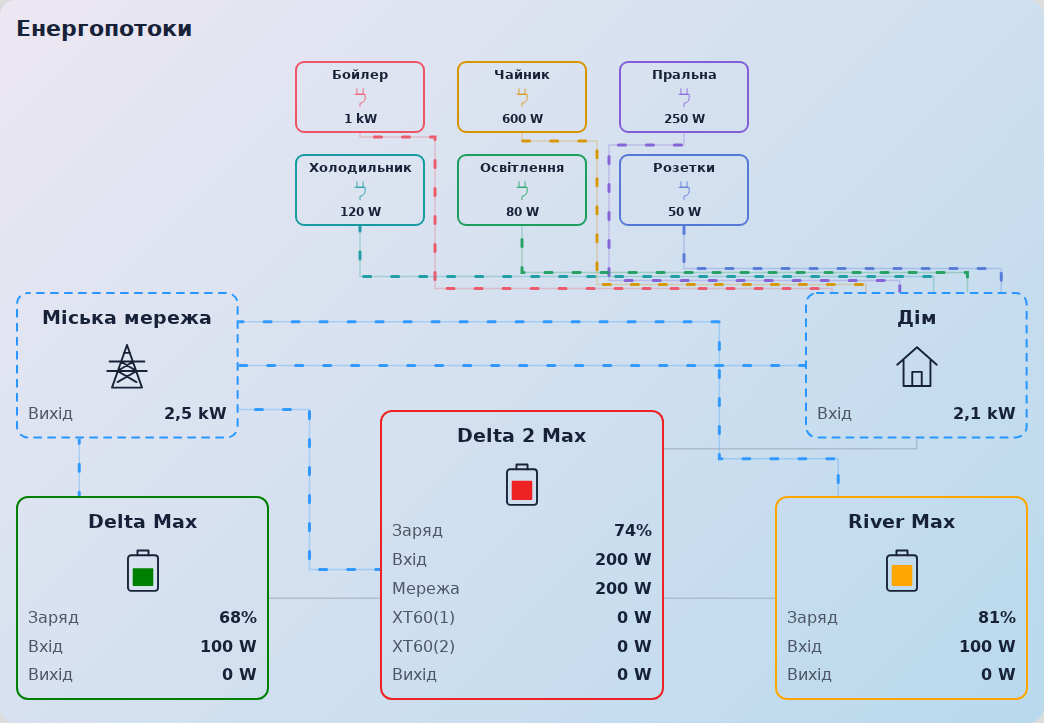
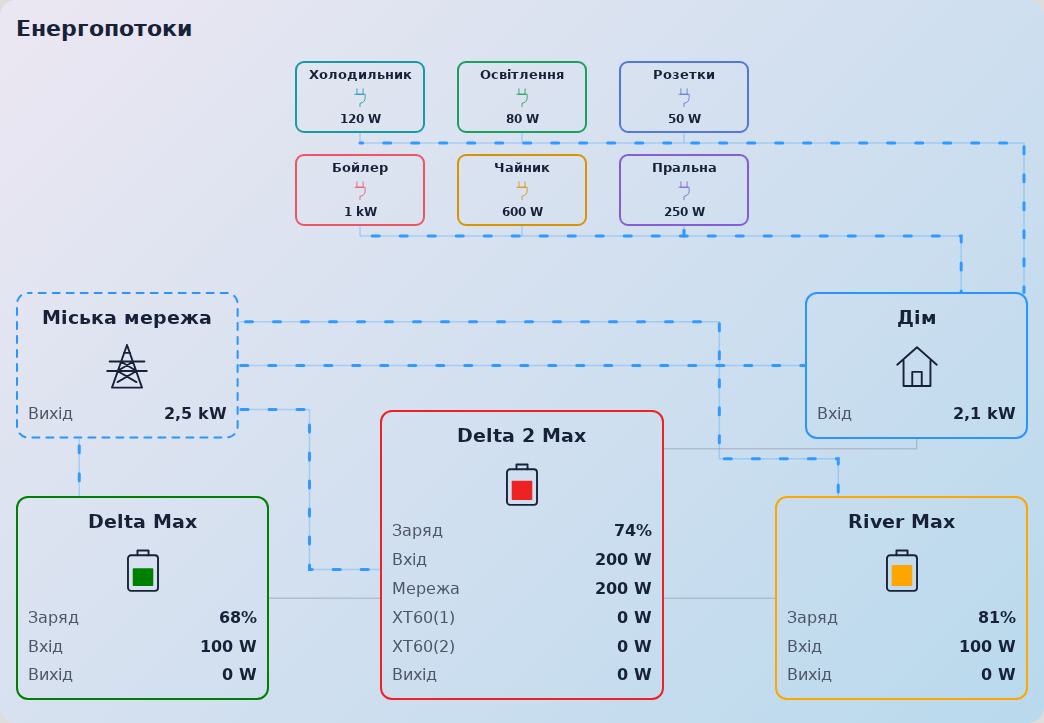
Simplify consumer feeds with shared rows in beta 2

diff --git a/suris-ecoflow-flow-card.js b/suris-ecoflow-flow-card.js
@@ -1,8 +1,8 @@
-/* Suris EcoFlow Flow Card v2.0.0-beta.1 | MIT | No external dependencies. */
+/* Suris EcoFlow Flow Card v2.0.0-beta.2 | MIT | No external dependencies. */
 (() => {
   'use strict';
   const TAG = 'suris-ecoflow-flow-card';
-  const VERSION = '2.0.0-beta.1';
+  const VERSION = '2.0.0-beta.2';
   const NS = 'http://www.w3.org/2000/svg';
   let cardSequence = 0;
   const DEFAULTS = {
@@ -17,8 +17,8 @@
     uk: { grid: 'Міська мережа', main: 'Головна EcoFlow', home: 'Дім', title: 'Енергопотоки', input: 'Вхід', output: 'Вихід', soc: 'Заряд', ac: 'Мережа', source: 'Джерело', unknown: 'Невідомо', unavailable: 'Недоступно', select: 'Вибери сутності в редакторі картки', settings: 'Налаштування', homePowerLabel: 'Вхід дому (необов’язково)', homeDerived: 'Без окремого датчика: від мережі — загальна потужність мінус заряджання трьох станцій; від EcoFlow — вихід головної станції. Відсутні або недоступні входи станцій у розрахунку вважаються нулем. Вхід дому від мережі розрахунковий.', sourceHint: 'Мережа є — дім від міської мережі. Мережі немає — дім від головної EcoFlow. Вибери датчик наявності мережі в блоці міської мережі.', flowHint: 'Штрихи без стрілок рухаються від джерела до споживача. Більша потужність кожної лінії — більша швидкість. Більший базовий час — повільніший рух. Потік активний, коли потужність перевищує поріг. Відсутні або недоступні показники відображаються як —.', mainHint: 'Для лінії мережа → головна EcoFlow потрібна окрема потужність AC-входу. Загальний вхід не використовується як AC-вхід.', auxHint: 'Потужність передачі на головну станцію: вибери DC-вихід, якщо загальний вихід включає інші навантаження. Якщо поле порожнє, використовується загальний вихід.', editorError: 'Редактор Home Assistant ще завантажується. Закрий та відкрий редактор картки ще раз.', more: 'Докладніше', watts: 'W', mismatch: 'Стан міської мережі не розпізнано', setup: 'Вибери датчик наявності міської мережі' },
     en: { grid: 'City grid', main: 'Main EcoFlow', home: 'Home', title: 'Energy flows', input: 'Input', output: 'Output', soc: 'Charge', ac: 'Grid', source: 'Source', unknown: 'Unknown', unavailable: 'Unavailable', select: 'Select entities in the card editor', settings: 'Settings', homePowerLabel: 'Home input power (optional)', homeDerived: 'Without a separate sensor: grid power minus the three station charging powers when on grid; main station output when on EcoFlow. Missing or unavailable station inputs count as zero in this calculation. Home input from the grid is calculated.', sourceHint: 'Grid available — home powered by grid. Grid absent — home powered by the main EcoFlow. Select the grid availability sensor in the city grid section.', flowHint: 'Dashes without arrows move from source to load. Higher power on each line increases its speed. A larger base time slows movement. A flow is active above the threshold. Missing or unavailable readings appear as —.', mainHint: 'A separate AC input power entity is required for grid → main EcoFlow. Total input is never treated as AC input.', auxHint: 'Transfer power: use DC output if total output includes other loads. When empty, total output is used.', editorError: 'The Home Assistant editor is still loading. Close and reopen the card editor.', more: 'More information', watts: 'W', mismatch: 'Unrecognized grid availability state', setup: 'Select the grid availability sensor' }
   };
-  Object.assign(TEXT.uk, { consumers: 'Індивідуальні споживачі', consumer: 'Споживач', addConsumer: 'Додати споживача', removeConsumer: 'Видалити', consumerPower: 'Датчик потужності (W / kW)', consumerIcon: 'Іконка', consumerColor: 'Колір рамки та лінії від дому', consumerHint: 'Додай до 20 приладів. Зверху видно до шести активних із найбільшою потужністю. Поріг активності береться з налаштувань потоків. Потрібен датчик потужності, а не енергії kWh. Колір застосовується до рамки приладу та його лінії від дому.' });
-  Object.assign(TEXT.en, { consumers: 'Individual consumers', consumer: 'Consumer', addConsumer: 'Add consumer', removeConsumer: 'Remove', consumerPower: 'Power sensor (W / kW)', consumerIcon: 'Icon', consumerColor: 'Consumer border and home line color', consumerHint: 'Add up to 20 devices. The six active devices with the highest power appear at the top. Activity uses the flow threshold. Select power sensors, not kWh energy sensors. Each color applies to the device border and its line from home.' });
+  Object.assign(TEXT.uk, { consumers: 'Індивідуальні споживачі', consumer: 'Споживач', addConsumer: 'Додати споживача', removeConsumer: 'Видалити', consumerPower: 'Датчик потужності (W / kW)', consumerIcon: 'Іконка', consumerColor: 'Колір рамки споживача', consumerHint: 'Додай до 20 приладів. Зверху видно до шести активних із найбільшою потужністю. Поріг активності береться з налаштувань потоків. Потрібен датчик потужності, а не енергії kWh. Колір застосовується до рамки приладу. Спільні лінії рядів мають колір дому. Спочатку заповнюється нижній ряд.' });
+  Object.assign(TEXT.en, { consumers: 'Individual consumers', consumer: 'Consumer', addConsumer: 'Add consumer', removeConsumer: 'Remove', consumerPower: 'Power sensor (W / kW)', consumerIcon: 'Icon', consumerColor: 'Consumer border color', consumerHint: 'Add up to 20 devices. The six active devices with the highest power appear at the top. Activity uses the flow threshold. Select power sensors, not kWh energy sensors. Each device color applies to its border. Shared row lines use the home color. The lower row fills first.' });
   const t = (config) => TEXT[config?.language] || TEXT.uk;
   const draftConfig = (config = {}) => {
     const result = { ...DEFAULTS, ...config };
@@ -68,7 +68,7 @@
     const ranked = consumers.map((consumer, index) => ({ ...consumer, index })).filter(consumer => Number.isFinite(consumer.power) && consumer.power > threshold)
       .sort((a, b) => b.power - a.power || previousRank(a.id) - previousRank(b.id) || a.index - b.index).slice(0, 6);
     const selected = new Map(ranked.map(consumer => [consumer.id, consumer])), slots = Array(6).fill(null);
-    previous.slice(0, 6).forEach((id, slot) => { if (selected.has(id)) { slots[slot] = selected.get(id); selected.delete(id); } });
+    previous.slice(0, 6).forEach((id, slot) => { if (slot < ranked.length && selected.has(id)) { slots[slot] = selected.get(id); selected.delete(id); } });
     for (const consumer of ranked) if (selected.has(consumer.id)) { slots[slots.indexOf(null)] = consumer; selected.delete(consumer.id); }
     return slots;
   };
@@ -163,7 +163,7 @@
     .grid{left:0;top:37%;width:22%}.home{right:0;top:37%;width:22%}.auxiliary_1{left:0;bottom:1%;width:25%}.auxiliary_2{right:0;bottom:1%;width:25%}.main{left:36%;bottom:1%;width:28%;min-height:max(220px,28cqw)}
     .status{margin-top:8px;color:var(--secondary-text-color,#aaa);font-size:12px;min-height:16px;text-align:center}.status:empty{display:none}
     @container(max-width:520px){.diagram{height:540px}.node{padding:8px 5px;gap:6px;border-radius:9px;min-height:137px}.node h3{font-size:12px}.node .icon{height:29px;margin:0}.row{font-size:11px;gap:2px}.row .value{margin-left:auto}.grid,.home{width:24%;top:38%}.auxiliary_1{left:0;width:25%;bottom:1%}.auxiliary_2{right:0;width:25%;bottom:1%}.main{left:33%;width:34%;min-height:202px}}
-    .node.consumer{height:72px;min-height:72px;padding:4px;gap:3px;border-radius:9px}.consumer h3{font-size:clamp(11px,1.5cqw,13px);line-height:1.2;white-space:nowrap;overflow:hidden;text-overflow:ellipsis;overflow-wrap:normal}.consumer .icon{height:22px;margin:0;color:var(--node-color)}.consumer ha-icon{--mdc-icon-size:22px;width:22px;height:22px}.consumer ha-icon:not(:defined){display:none}.consumer ha-icon:defined+.fallback{display:none}.consumer .fallback{height:22px}.consumer .value{width:100%;text-align:center;font-size:12px;line-height:16px}.consumer:focus-within{outline:1px solid var(--node-color);outline-offset:2px}
+    .node.consumer{height:72px;min-height:72px;padding:4px;gap:3px;border-radius:9px}.consumer h3{font-size:clamp(11px,1.5cqw,13px);line-height:1.2;white-space:nowrap;overflow:hidden;text-overflow:ellipsis;overflow-wrap:normal}.consumer .icon{height:22px;margin:0;color:var(--node-color)}.consumer ha-icon{--mdc-icon-size:22px;width:22px;height:22px}.consumer ha-icon:not(:defined){display:none}.consumer ha-icon:defined+.fallback{display:none}.consumer .fallback{height:22px}.consumer .fallback svg{width:22px}.consumer .value{width:100%;text-align:center;font-size:12px;line-height:16px}.consumer:focus-within{outline:1px solid var(--node-color);outline-offset:2px}
     @media(prefers-reduced-motion:reduce){.flow .flow-dashes{display:none}.flow.active .flow-track{stroke-width:3;opacity:.92}}
   `;
   class SurisEcoFlowFlowCard extends HTMLElement {
@@ -289,7 +289,7 @@
       const status = this.shadowRoot.querySelector('.status');
       status.textContent = !c.grid.available_entity ? text.setup : data.home.source === 'unknown' ? text.mismatch : '';
       const homeColor = data.home.source === 'unknown' ? 'var(--divider-color,#60656d)' : `var(--flow-${data.home.source})`;
-      this._nodes.home.style.setProperty('--node-color', homeColor); this._borders.home.style.setProperty('--node-color', homeColor);
+      this.style.setProperty('--flow-home', homeColor); this._nodes.home.style.setProperty('--node-color', homeColor); this._borders.home.style.setProperty('--node-color', homeColor);
       this._renderConsumers(); this._drawPaths(); this._syncFlows();
     }
     _renderConsumers() {
@@ -313,12 +313,14 @@
         this.style.setProperty(`--consumer-${consumer.id}`, consumer.color); node.style.setProperty('--node-color', `var(--consumer-${consumer.id})`);
         const value = node.querySelector('.value'); value.textContent = powerText(consumer.power, this._config.language); value.dataset.entity = consumer.entity;
         value.title = `${consumer.entity}: ${this._states[consumer.entity]?.state ?? ''}`; value.setAttribute('aria-label', `${consumer.name}: ${value.textContent}`);
-        const name = `home_consumer_${consumer.id}`; this._data.flows[name] = true; this._data.flow_power[name] = consumer.power;
+        const name = `home_consumer_${consumer.id}`, row = slot < 3 ? 'home_row_lower' : 'home_row_upper';
+        this._data.flows[name] = true; this._data.flow_power[name] = consumer.power;
+        this._data.flows[row] = true; this._data.flow_power[row] = (this._data.flow_power[row] || 0) + consumer.power;
       });
     }
     _layoutConsumers() {
-      const width = Math.min(130, (this._diagram.clientWidth - 64) / 3), offset = (this._diagram.clientWidth - width * 3 - 64) / 2;
-      for (const node of this._consumerNodes.values()) { const slot = Number(node.dataset.slot); Object.assign(node.style, { left: `${offset + (width + 32) * (slot % 3)}px`, top: `${12 + Math.floor(slot / 3) * 93}px`, width: `${width}px` }); }
+      const width = Math.min(130, (this._diagram.clientWidth - 84) / 3), offset = (this._diagram.clientWidth - width * 3 - 64) / 2;
+      for (const node of this._consumerNodes.values()) { const slot = Number(node.dataset.slot); Object.assign(node.style, { left: `${offset + (width + 32) * (slot % 3)}px`, top: `${12 + (slot < 3 ? 1 : 0) * 93}px`, width: `${width}px` }); }
     }
     _syncFlows() {
       if (!this._config) return;
@@ -336,7 +338,7 @@
     _syncBorders() {
       for (const [key, border] of Object.entries(this._borders || {})) {
         const outgoing = Object.keys(this._data?.flows || {}).filter(name => name.startsWith(`${key}_`) && this._data.flows[name]);
-        const active = outgoing.length > 0, animation = border._animation;
+        const active = key !== 'home' && outgoing.length > 0, animation = border._animation;
         this._nodes[key].classList.toggle('supplying', active); border.classList.toggle('active', active);
         const watts = outgoing.reduce((total, name) => total + this._data.flow_power[name], 0);
         animation.updatePlaybackRate(flowSpeed(watts, this._config.appearance.duration) / 14);
@@ -397,15 +399,14 @@
         auxiliary_2_main: `M ${b.x} ${b.y + b.h / 2} H ${m.right}`,
         main_home: `M ${m.right} ${homeLane} H ${h.x + h.w / 2} V ${h.bottom}`
       };
-      for (const [id, node] of this._consumerNodes) {
-        const c = rect(`consumer:${id}`), slot = Number(node.dataset.slot), col = slot % 3;
-        const port = h.x + h.w * (.12 + slot * .152), lane = h.y - 4 * (slot + 1), target = c.x + c.w / 2;
-        if (slot >= 3) routes[`home_consumer_${id}`] = `M ${port} ${h.y} V ${lane} H ${target} V ${c.bottom}`;
-        else {
-          const corridor = col === 2 ? c.x - 10 : c.right + 10;
-          const upperLane = c.bottom + 4 * (col + 1);
-          routes[`home_consumer_${id}`] = `M ${port} ${h.y} V ${lane} H ${corridor} V ${upperLane} H ${target} V ${c.bottom}`;
-        }
+      for (const [row, lower] of [['lower', true], ['upper', false]]) {
+        const members = [...this._consumerNodes].filter(([, node]) => (Number(node.dataset.slot) < 3) === lower);
+        if (!members.length) continue;
+        const bounds = members.map(([id]) => rect(`consumer:${id}`)), lane = bounds[0].bottom + 10;
+        const port = lower ? h.x + h.w * .70 : base.width - 4;
+        const leftmost = Math.min(...bounds.map(c => c.x + c.w / 2));
+        routes[`home_row_${row}`] = `M ${port} ${h.y} V ${lane} H ${leftmost}`;
+        members.forEach(([id], index) => { const c = bounds[index]; routes[`home_consumer_${id}`] = `M ${c.x + c.w / 2} ${lane} V ${c.bottom}`; });
       }
       const geometry = JSON.stringify(routes); if (geometry === this._geometry && this._svg.childElementCount) return;
       const oldFlows = this._flows;
@@ -424,7 +425,7 @@
       for (const [name, route] of Object.entries(routes)) {
         const group = oldFlows[name] || document.createElementNS(NS, 'g'); group.classList.add('flow'); group.dataset.flow = name;
         const color = name.startsWith('grid') ? 'grid' : name === 'main_home' ? 'main' : name.startsWith('auxiliary_1') ? 'auxiliary_1' : 'auxiliary_2';
-        group.style.setProperty('--color', name.startsWith('home_consumer_') ? `var(--consumer-${name.slice(14)})` : `var(--flow-${color})`);
+        group.style.setProperty('--color', name.startsWith('home_') ? 'var(--flow-home)' : `var(--flow-${color})`);
         const path = group.querySelector('.flow-track') || document.createElementNS(NS, 'path'); path.classList.add('flow-track'); path.setAttribute('d', route); group.append(path);
         const dashes = group.querySelector('.flow-dashes') || document.createElementNS(NS, 'path'); dashes.classList.add('flow-dashes'); dashes.setAttribute('d', route); group.append(dashes);
         if (!group._animation) { group._animation = dashes.animate([{ strokeDashoffset: '0px' }, { strokeDashoffset: '-28px' }], { duration: 1000, iterations: Infinity });

diff --git a/demo.html b/demo.html
@@ -1,5 +1,5 @@
 <!doctype html>
-<html lang="uk"><head><meta charset="utf-8"><meta name="viewport" content="width=device-width,initial-scale=1"><title>Suris EcoFlow Flow Card 2.0.0-beta.1 — Demo</title>
+<html lang="uk"><head><meta charset="utf-8"><meta name="viewport" content="width=device-width,initial-scale=1"><title>Suris EcoFlow Flow Card 2.0.0-beta.2 — Demo</title>
 <style>body{margin:20px auto;padding:0 12px;max-width:1060px;background:#111;color:#eee;font:16px system-ui;--ha-card-background:#1c1c1c;--primary-text-color:#eee;--secondary-text-color:#aaa;--divider-color:#535861}nav{display:flex;gap:8px;flex-wrap:wrap;margin:16px 0}button{background:#222;border:1px solid #666;color:#eee;padding:10px 14px;border-radius:8px;cursor:pointer}button:focus-visible{outline:2px solid #27d9d5}p{color:#aaa;font-size:13px}</style>
 </head><body><nav><button data-mode="main">Дім від EcoFlow</button><button data-mode="aux3">Передача EcoFlow №3</button><button data-mode="grid">Дім від мережі</button><button data-mode="charging">Заряджання від мережі</button><button data-mode="replace">Заміна сильнішим приладом</button><button data-mode="idle">Прилади вимкнені</button><button data-mode="unknown">Джерело недоступне</button></nav><suris-ecoflow-flow-card></suris-ecoflow-flow-card><p>Демонстраційні показники. Для встановлення відкрий README.md.</p>
 <script src="./suris-ecoflow-flow-card.js"></script><script>

diff --git a/README.md b/README.md
@@ -1,6 +1,6 @@
-# Suris EcoFlow Flow Card 2.0.0-beta.1
+# Suris EcoFlow Flow Card 2.0.0-beta.2
 
-[English guide](README_EN.md) · [Завантажити бету](https://github.com/Suris2009/suris-ecoflow-flow-card/releases/tag/v2.0.0-beta.1) · [Стабільна 0.1.12](https://github.com/Suris2009/suris-ecoflow-flow-card/releases/tag/v0.1.12)
+[English guide](README_EN.md) · [Завантажити бету](https://github.com/Suris2009/suris-ecoflow-flow-card/releases/tag/v2.0.0-beta.2) · [Стабільна 0.1.12](https://github.com/Suris2009/suris-ecoflow-flow-card/releases/tag/v0.1.12)
 
 **Попередній випуск:** макет і налаштування версії 2 ще доопрацьовуються. Для звичайних оновлень залишається стабільна 0.1.12.
 
@@ -16,7 +16,7 @@
 
 - До **20 налаштованих приладів**; на екрані одночасно **шість активних** у двох рядах по три.
 - Якщо активних більше шести, прилад із більшою потужністю замінює найслабший. Решта зберігають свої місця. За однакової потужності вже показані мають пріоритет.
-- У кожного приладу своя назва, іконка та колір. **Рамка й лінія від дому мають один колір цього приладу.**
+- У кожного приладу своя назва, іконка та колір. **Колір рамки приладу індивідуальний; спільні лінії обох рядів мають колір дому.**
 - Допоміжні станції розташовано по боках головної. Маршрути залишаються горизонтальними та вертикальними.
 - Налаштування станцій із версії 1 зберігаються. Споживачі додаються окремо; без них верхня частина порожня.
 
@@ -26,7 +26,7 @@
 
 1. Відкрий **HACS → ⋮ → Користувацькі репозиторії**.
 2. Додай `https://github.com/Suris2009/suris-ecoflow-flow-card`, тип **Dashboard / Панель огляду** (у старих версіях — **Lovelace / Plugin**).
-3. Знайди **Suris EcoFlow Flow Card** та завантаж **2.0.0-beta.1**. Якщо бета не пропонується, увімкни для цього репозиторію HACS-перемикач попередніх випусків. Такі сутності можуть бути вимкнені за замовчуванням: знайди сутність репозиторію у **Налаштування → Пристрої та служби → Сутності**, увімкни її й переведи перемикач у стан `on`. [Офіційне пояснення HACS](https://www.hacs.dev/docs/use/entities/switch/). Якщо бета недоступна через HACS, скористайся ручним встановленням нижче.
+3. Знайди **Suris EcoFlow Flow Card** та завантаж **2.0.0-beta.2**. Якщо бета не пропонується, увімкни для цього репозиторію HACS-перемикач попередніх випусків. Такі сутності можуть бути вимкнені за замовчуванням: знайди сутність репозиторію у **Налаштування → Пристрої та служби → Сутності**, увімкни її й переведи перемикач у стан `on`. [Офіційне пояснення HACS](https://www.hacs.dev/docs/use/entities/switch/). Якщо бета недоступна через HACS, скористайся ручним встановленням нижче.
 4. Онови сторінку Home Assistant. Якщо ресурс не додано автоматично, додай `/hacsfiles/suris-ecoflow-flow-card/suris-ecoflow-flow-card.js` як **JavaScript module** у ресурсах панелей огляду.
 5. На панелі натисни **Редагувати → Додати картку → Suris EcoFlow Flow Card** і вибери сутності у візуальному редакторі.
 
@@ -36,7 +36,7 @@
 
 1. Скопіюй `suris-ecoflow-flow-card.js` до папки `www` у каталозі конфігурації Home Assistant. Через Studio Code Server це зазвичай `/config/www`; в окремих версіях середовища каталог може відображатися як `/homeassistant/www`. Використовуй той каталог, у якому розташований `configuration.yaml`. Можна скористатися Samba або завантаженням файлу в редакторі. Якщо папку `www` щойно створено вперше, перезапусти Home Assistant.
 2. Відкрий **Налаштування → Панелі огляду → ⋮ → Ресурси → Додати ресурс**. Якщо «Ресурси» не видно, увімкни розширений режим у профілі користувача.
-3. URL: `/local/suris-ecoflow-flow-card.js?v=2.0.0-beta.1`. Тип: **JavaScript module**.
+3. URL: `/local/suris-ecoflow-flow-card.js?v=2.0.0-beta.2`. Тип: **JavaScript module**.
 4. Онови сторінку Home Assistant. За потреби очисть кеш інтерфейсу в застосунку.
 5. На панелі огляду натисни **Редагувати → Додати картку**, знайди **Suris EcoFlow Flow Card**.
 6. Вибери сутності у візуальному редакторі. YAML не потрібен.
@@ -48,12 +48,12 @@
 1. Відкрий редактор цієї картки й розділ **Індивідуальні споживачі**.
 2. Натисни **Додати споживача**. Введи зрозумілу назву, наприклад «Бойлер».
 3. Вибери його датчик потужності, наприклад `sensor.boiler_power`, та іконку в інтерфейсі Home Assistant.
-4. Введи колір: `orange`, `red`, `green`, `#ff8800`, `rgb(255, 136, 0)` або `hsl(32, 100%, 50%)`. Лапки у візуальному полі не потрібні. Цей колір застосовується і до рамки, і до потоку **дім → прилад**.
+4. Введи колір: `orange`, `red`, `green`, `#ff8800`, `rgb(255, 136, 0)` або `hsl(32, 100%, 50%)`. Лапки у візуальному полі не потрібні. Цей колір застосовується до рамки приладу. Потоки до приладів мають колір дому, тобто його активного джерела.
 5. Збережи картку. Повтори для інших приладів, максимум 20. Кнопка **Видалити** прибирає тільки налаштування приладу з картки.
 
 Активним вважається прилад із потужністю **більшою** за поріг у розділі «Вигляд потоків»: типово понад **3 W**. Нульові, від’ємні, невідомі та недоступні значення не показуються. Поріг можна змінити. Покази менше 1000 W відображаються у W, від 1000 W — у kW. Довга назва скорочується в квадраті; повна доступна в підказці. Натискання на потужність відкриває докладну інформацію про сутність.
 
-Список приладів **не віднімається від входу дому** і не підміняє його. Він розкладає частину загального споживання на окремі прилади; приховані та неналаштовані прилади також можуть споживати енергію. Рух кожної лінії залежить від потужності саме її приладу. Контур дому рухається за годинниковою стрілкою, коли він віддає енергію показаним споживачам.
+Список приладів **не віднімається від входу дому** і не підміняє його. Він розкладає частину загального споживання на окремі прилади; приховані та неналаштовані прилади також можуть споживати енергію. Спочатку заповнюється нижній ряд зліва направо, потім верхній. Якщо приладів стає менше, порожні місця в нижньому ряду заповнюються приладами з верхнього. Кожен ряд має одну спільну лінію від дому й короткі вертикальні відгалуження до приладів. Швидкість спільної лінії залежить від суми потужностей показаних приладів цього ряду; швидкість відгалуження — від потужності його приладу. Усі ці лінії мають колір дому. Рамка дому завжди суцільна та нерухома.
 
 ### Приклад YAML для двох приладів
 
@@ -138,7 +138,7 @@ consumers:
 
 ## Вигляд та перевірка
 
-Усі лінії складаються лише з горизонтальних і вертикальних відрізків із прямими кутами. Міська мережа має окрему лінію до кожної станції та дому. Від допоміжних EcoFlow до головної проходять прямі горизонтальні лінії. Лінії від дому до споживачів прокладено окремими маршрутами між їхніми квадратами. Від головної станції до дому лінія повертає лише один раз і входить у дім знизу. Короткі рухомі штрихи без стрілок повторюють ці самі маршрути від джерела до споживача.
+Усі лінії складаються лише з горизонтальних і вертикальних відрізків із прямими кутами. Міська мережа має окрему лінію до кожної станції та дому. Від допоміжних EcoFlow до головної проходять прямі горизонтальні лінії. Від дому до кожного ряду споживачів прокладено одну спільну лінію з короткими відгалуженнями до квадратів. Від головної станції до дому лінія повертає лише один раз і входить у дім знизу. Короткі рухомі штрихи без стрілок повторюють ці самі маршрути від джерела до споживача.
 
 Значки батарей усіх трьох станцій показують рівень заповнення за їхніми датчиками заряду. 0% — порожня батарея, 100% — повна. Якщо заряд невідомий, недоступний або поза діапазоном 0–100%, усередині батареї відображається прочерк. Колір заповнення відповідає кольору станції. У домі потужність підписана «Вхід» і показується без знака приблизного значення. Рядок із назвою джерела прибрано: активне джерело видно за потоком і кольором рамки. У всіх блоках значення від 1000 W показуються у kW із точністю до двох десяткових знаків; менші — у W. Підписи, числа та одиниці всіх показників залишаються в одному рядку. Блок мережі має ту саму ширину, що й дім. Розмір тексту рядка зменшується лише за потреби, щоб повністю вмістити підпис, число та одиницю.
 
@@ -164,4 +164,4 @@ API карток і встановлення ресурсу: https://developers.
 
 У всіх блоках одиниці потужності — **W** та **kW**. Від 1000 W значення показуються в kW. Підпис, число та одиниця залишаються в одному рядку; шрифт зменшується лише коли рядку бракує місця. Рядки вміщуються без розширення блоків під конкретне число.
 
-Рамка блока, який віддає енергію хоча б за однією активною вихідною лінією, стає пунктирною й рухається **за годинниковою стрілкою**. Колір рамки зберігається. Швидкість залежить від сумарної потужності його активних вихідних потоків. Коли передача припиняється, повертається суцільна нерухома рамка. Дім також віддає енергію показаним споживачам, тому за їхньої активності його рамка рухається; без активних споживачів залишається суцільною. За системного налаштування зменшення руху пунктирні рамки не рухаються.
+Рамка блока, який віддає енергію хоча б за однією активною вихідною лінією, стає пунктирною й рухається **за годинниковою стрілкою**. Колір рамки зберігається. Швидкість залежить від сумарної потужності його активних вихідних потоків. Коли передача припиняється, повертається суцільна нерухома рамка. Рамка дому завжди суцільна й нерухома, зокрема за активних індивідуальних споживачів. За системного налаштування зменшення руху пунктирні рамки не рухаються.

diff --git a/README_EN.md b/README_EN.md
@@ -1,6 +1,6 @@
-# Suris EcoFlow Flow Card 2.0.0-beta.1
+# Suris EcoFlow Flow Card 2.0.0-beta.2
 
-[Українська інструкція](README.md) · [Beta release](https://github.com/Suris2009/suris-ecoflow-flow-card/releases/tag/v2.0.0-beta.1) · [Stable 0.1.12](https://github.com/Suris2009/suris-ecoflow-flow-card/releases/tag/v0.1.12)
+[Українська інструкція](README.md) · [Beta release](https://github.com/Suris2009/suris-ecoflow-flow-card/releases/tag/v2.0.0-beta.2) · [Stable 0.1.12](https://github.com/Suris2009/suris-ecoflow-flow-card/releases/tag/v0.1.12)
 
 **Pre-release:** version 2 layout and settings are still being refined. Stable 0.1.12 remains available.
 
@@ -14,7 +14,7 @@ This is a **dashboard card**, not a device integration. Install your EcoFlow and
 
 1. Open **HACS → ⋮ → Custom repositories**.
 2. Add `https://github.com/Suris2009/suris-ecoflow-flow-card`, category **Dashboard** (Lovelace / Plugin in older versions).
-3. Download **2.0.0-beta.1**. If it is not offered, enable this repository's HACS pre-release switch entity and turn it on. These entities may be disabled by default; find the repository's entity under **Settings → Devices & services → Entities**, enable it, then turn it on. See the [official HACS explanation](https://www.hacs.dev/docs/use/entities/switch/). Manual installation below is also available.
+3. Download **2.0.0-beta.2**. If it is not offered, enable this repository's HACS pre-release switch entity and turn it on. These entities may be disabled by default; find the repository's entity under **Settings → Devices & services → Entities**, enable it, then turn it on. See the [official HACS explanation](https://www.hacs.dev/docs/use/entities/switch/). Manual installation below is also available.
 4. Reload the Home Assistant frontend. If HACS did not add the resource, add `/hacsfiles/suris-ecoflow-flow-card/suris-ecoflow-flow-card.js` as a **JavaScript module** in dashboard resources.
 5. Open **Edit dashboard → Add card → Suris EcoFlow Flow Card**. Choose your entities in the visual editor. YAML is optional.
 
@@ -24,7 +24,7 @@ This repository is added as a custom HACS repository; inclusion in the default c
 
 1. Download `suris-ecoflow-flow-card.js` from the beta release. Put it in the `www` folder beside your Home Assistant `configuration.yaml`, commonly `/config/www`. If you just created `www` for the first time, restart Home Assistant.
 2. Open **Settings → Dashboards → ⋮ → Resources → Add resource**. Enable Advanced mode in your user profile if Resources is hidden.
-3. URL: `/local/suris-ecoflow-flow-card.js?v=2.0.0-beta.1`; type: **JavaScript module**.
+3. URL: `/local/suris-ecoflow-flow-card.js?v=2.0.0-beta.2`; type: **JavaScript module**.
 4. Reload the frontend, then add and configure the card through the visual editor. Clear the frontend cache if the old version remains visible.
 
 ## Configure the stations and home
@@ -59,14 +59,14 @@ XT60 ports are independent of the auxiliary stations. Their readings do not deci
 
 1. Open the card editor and **Individual consumers**.
 2. Click **Add consumer**, give it a name, select its **power** sensor and choose an icon with the Home Assistant icon picker.
-3. Set its color: `red`, `green`, `orange`, `#ff8800`, `rgb(255, 136, 0)` or `hsl(32, 100%, 50%)`. Do not add quotes in the visual field. **The same color is used for that device's border and home → device line.**
+3. Set its color: `red`, `green`, `orange`, `#ff8800`, `rgb(255, 136, 0)` or `hsl(32, 100%, 50%)`. Do not add quotes in the visual field. **This color applies to the device's border. Shared row lines and their branches use the home color, following its active source.**
 4. Save the card. Repeat for up to 20 devices. Remove deletes only the entry from this card, not the Home Assistant entity.
 
 Use power sensors in **W / kW**, for example from smart plugs, rather than accumulated energy sensors in **kWh**. The six highest-power active devices appear in two rows of three. Activity means power strictly above the flow threshold, **3 W by default**. Zero, negative, unknown and unavailable readings are hidden. Change the threshold in Flow appearance if needed.
 
 A stronger device replaces the weakest visible one. Other visible tiles keep their slots; ties favor devices already displayed. No paging or scrolling is needed. Long names are shortened inside tiles, with full names in tooltips. Click a power reading for the entity's more-info dialog.
 
-Consumer readings **do not subtract from home input or replace it**. They explain part of the household total; hidden and unconfigured loads can also draw power. Each consumer line runs at a speed based on its own wattage. The home outline moves clockwise while it supplies visible consumers.
+Consumer readings **do not subtract from home input or replace it**. They explain part of the household total; hidden and unconfigured loads can also draw power. The lower row fills first from left to right, followed by the upper row. When devices become inactive, lower-row gaps are filled from above. Each row has one shared home feeder with short vertical branches. Feeder speed follows the total power of visible devices in that row; each branch follows its device power. Both feeders and all branches use the home color. The home outline always remains solid and stationary.
 
 Optional YAML fragment to append to an existing card configuration, keeping the grid and station sections:
 
@@ -88,9 +88,9 @@ Replace the example entities. `id` is a stable card identifier, not a Home Assis
 
 ## Colors, readings and animations
 
-Set separate source colors for grid, each auxiliary station and main station in **Flow appearance**. Each color applies to its station border, battery fill and outgoing lines. Home uses its active source's color, or a neutral border when the source is unknown. Individual consumers use their own colors. Empty color fields restore defaults. Incomplete color text stays editable while the last valid preview remains displayed.
+Set separate source colors for grid, each auxiliary station and main station in **Flow appearance**. Each color applies to its station border, battery fill and outgoing lines. Home uses its active source's color, or a neutral border when the source is unknown. Individual consumers have their own border colors; their flow lines use the home color. Empty color fields restore defaults. Incomplete color text stays editable while the last valid preview remains displayed.
 
-All lines have right-angle routes; no diagonals. Supplying blocks have clockwise moving dashed outlines, while inactive outlines are solid. More watts makes movement faster, with a bounded speed. Increasing Base movement time slows all lines. Live power changes adjust animation speed without restarting it. System reduced-motion settings make active flows static.
+All lines have right-angle routes; no diagonals. Supplying grid and station blocks have clockwise moving dashed outlines, while inactive outlines are solid. The home outline always remains solid and stationary. More watts makes movement faster, with a bounded speed. Increasing Base movement time slows all lines. Live power changes adjust animation speed without restarting it. System reduced-motion settings make active flows static.
 
 All power rows stay on one line. Values below 1000 W use W; values from 1000 W use kW with up to two decimal places. Supported input units include W, kW, mW, MW, Вт and кВт; a reading without a unit is treated as W. Wh / kWh are not power. Missing readings show `—`; real zero shows `0 W`. Station battery icons fill from valid 0–100% readings. The blocks have nearly transparent backgrounds and follow the Home Assistant theme.
 

diff --git a/CHANGELOG.md b/CHANGELOG.md
@@ -1,5 +1,16 @@
 # Changelog
 
+## 2.0.0-beta.2 — Pre-release
+
+- Replace separate home-to-consumer feeds with one shared line per row and short vertical branches.
+- Use the home color for both shared row lines and all branches; retain independent consumer border colors.
+- Fill the lower row first, then the upper row. Compact gaps downward when active devices disappear, while keeping slots stable during strongest-six replacements.
+- Keep the home outline solid and stationary in every supply state.
+- Drive shared feeder speed from the visible row's total wattage and each branch from its own consumer power.
+- Preserve card height, twenty configurable consumers, six strongest active devices, right-angle routes and existing station configuration.
+- Verify sparse counts, source-dependent line colors, fixed home outline and orthogonal route geometry at phone and desktop widths.
+
+
 ## 2.0.0-beta.1 — Pre-release
 
 This is the first version 2 beta. Layout and settings will continue to evolve. Stable 0.1.12 remains available.
